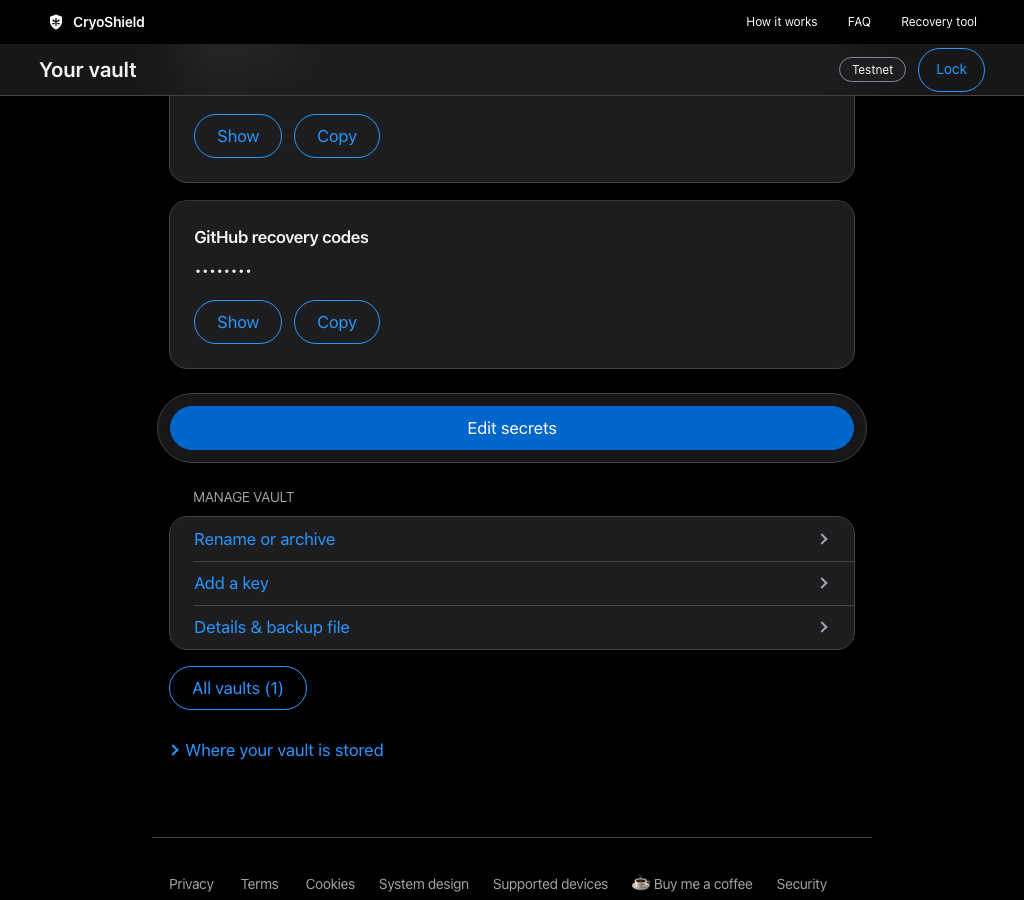
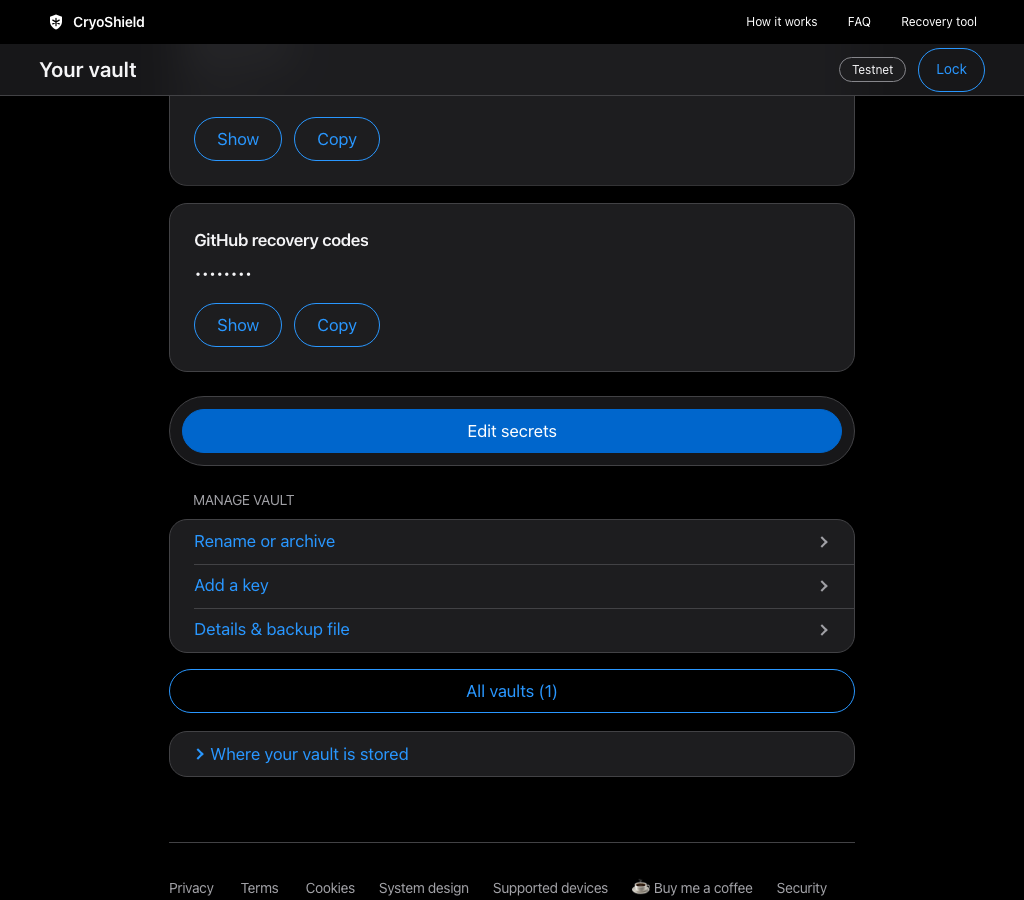
fix(web): align every vault section to one column width
The action bar no longer overhangs, All vaults is full width, the
location disclosure is a full-width card, and the footer divider spans
the column. Change align-vault-sections.

diff --git a/apps/web/e2e/specs/18-vault-layout.spec.ts b/apps/web/e2e/specs/18-vault-layout.spec.ts
@@ -1,0 +1,58 @@
+/** align-vault-sections 1.1 (spec vault-web-app "Vault view column alignment"): every block of the open vault shares
+ *  the content column's edges, at desktop and phone width; the location card expands inside itself. */
+import { expect, test } from '@playwright/test';
+import { APP } from '../fixtures/routes';
+import { ArweaveStub } from '../fixtures/arweave';
+import { VirtualKeys } from '../fixtures/webauthn';
+import { createVault } from '../fixtures/app';
+import { settled } from '../fixtures/motion';
+
+const BLOCKS = ['.secrets', '.action-bar', '.group-list', '.vault-nav button', '.vault-location-disclosure'];
+
+for (const width of [1024, 390]) {
+  test(`open vault blocks share the column edges at ${width} px`, async ({ page }) => {
+    await page.setViewportSize({ width, height: 900 });
+    await new ArweaveStub().install(page);
+    await page.goto(APP);
+    const keys = await VirtualKeys.attach(page);
+    await keys.add();
+    await keys.add();
+    await createVault(page, keys, [{ label: 'Bitcoin seed', secret: 'abandon ability able about' }]);
+    await page.getByRole('button', { name: 'Continue' }).click();
+    await expect(page.getByRole('button', { name: /^All vaults/ })).toBeVisible();
+    await settled(page);
+
+    const edges = async () => page.evaluate((sels) => {
+      const box = (el: Element) => el.getBoundingClientRect();
+      const main = document.querySelector('.app-main')!;
+      const cs = getComputedStyle(main);
+      const m = box(main);
+      const column = { left: m.left + parseFloat(cs.paddingLeft), right: m.right - parseFloat(cs.paddingRight) };
+      const blocks = sels.map((s) => {
+        const el = document.querySelector(s);
+        return { s, left: el ? box(el).left : NaN, right: el ? box(el).right : NaN };
+      });
+      const footer = document.querySelector('.app-footer ul')!;
+      const fcs = getComputedStyle(footer);
+      const ruled = fcs.borderTopWidth !== '0px' ? box(footer) : box(document.querySelector('.app-footer')!);
+      return { column, blocks, footer: { left: ruled.left, right: ruled.right } };
+    }, BLOCKS);
+
+    const check = (r: Awaited<ReturnType<typeof edges>>) => {
+      for (const b of r.blocks) {
+        expect(Math.abs(b.left - r.column.left), `${b.s} left`).toBeLessThanOrEqual(1);
+        expect(Math.abs(b.right - r.column.right), `${b.s} right`).toBeLessThanOrEqual(1);
+      }
+      expect(Math.abs(r.footer.left - r.column.left), 'footer divider left').toBeLessThanOrEqual(1);
+      expect(Math.abs(r.footer.right - r.column.right), 'footer divider right').toBeLessThanOrEqual(1);
+    };
+    check(await edges());
+
+    // Expanded, the details sit inside the one card: no second border.
+    await page.getByRole('button', { name: 'Where your vault is stored' }).click();
+    await expect(page.locator('.vault-location')).toBeVisible();
+    await settled(page);
+    check(await edges());
+    expect(await page.locator('.vault-location').evaluate((el) => getComputedStyle(el).borderTopWidth)).toBe('0px');
+  });
+}

diff --git a/apps/web/src/ui/global.css b/apps/web/src/ui/global.css
@@ -163,7 +163,8 @@ button.link-button {
   min-height: var(--bar-h);
   align-items: center;
   padding: var(--space-sm) var(--space-sm);
-  margin: var(--space-lg) calc(-1 * var(--space-sm)) var(--space-md);
+  /* align-vault-sections D2: the tray is the column width (no side overhang), like every other block. */
+  margin: var(--space-lg) 0 var(--space-md);
   background: var(--app-frost);
   -webkit-backdrop-filter: var(--blur-frost);
   backdrop-filter: var(--blur-frost);
@@ -201,6 +202,10 @@ button.link-button {
 }
 
 /* ---- Vault actions (vault-view-action-layout D3): an inset grouped list of full-row buttons, then navigation ---- */
+.vault-nav button {
+  /* align-vault-sections D1: full column width, like the blocks above it. */
+  flex: 1 1 100%;
+}
 .group-heading {
   margin: var(--space-lg) 0 var(--space-xs) var(--space-lg);
   font-size: var(--caption-size);
@@ -702,16 +707,17 @@ dd {
 .app-footer {
   max-width: 720px;
   margin: 0 auto;
-  padding: var(--space-lg) var(--space-md) var(--space-xxl);
-  border-top: 1px solid var(--app-hairline);
+  padding: 0 var(--space-md) var(--space-xxl);
 }
+/* align-vault-sections D4: the divider spans the content column, not the gutter. */
 .app-footer ul {
   display: flex;
   flex-wrap: wrap;
   gap: var(--space-xs) var(--space-lg);
   list-style: none;
   margin: 0;
-  padding: 0;
+  padding: var(--space-lg) 0 0;
+  border-top: 1px solid var(--app-hairline);
 }
 .app-footer a {
   display: inline-flex;
@@ -761,18 +767,40 @@ dd {
 }
 
 /* "Where your vault is stored" (show-vault-onchain-location): a quiet disclosure under the vault, utility-card rows. */
-.vault-location-disclosure {
-  margin: var(--space-md) 0;
-}
-.vault-location-disclosure .notice-details button.disclosure {
-  min-height: var(--target);
-}
 .vault-location {
   margin-top: var(--space-xs);
   padding: var(--space-md) var(--space-lg);
   background: var(--app-surface);
   border: 1px solid var(--app-hairline);
   border-radius: var(--radius-lg);
+}
+/* align-vault-sections D3: one full-width card, like the Manage vault list; the details expand inside it. */
+.vault-location-disclosure {
+  margin: var(--space-md) 0;
+  background: var(--app-surface);
+  border: 1px solid var(--app-hairline);
+  border-radius: var(--radius-lg);
+  overflow: hidden;
+}
+.vault-location-disclosure .notice-details {
+  margin: 0;
+}
+.vault-location-disclosure .notice-details button.disclosure {
+  width: 100%;
+  min-height: var(--target);
+  padding: 11px var(--space-lg);
+  border-radius: 0;
+  text-align: left;
+}
+.vault-location-disclosure .notice-details button.disclosure:focus-visible {
+  outline-offset: -3px;
+}
+.vault-location-disclosure .vault-location {
+  margin: 0;
+  padding-top: 0;
+  background: none;
+  border: 0;
+  border-radius: 0;
 }
 .loc-list {
   margin: 0;

diff --git a/openspec/changes/align-vault-sections/design.md b/openspec/changes/align-vault-sections/design.md
@@ -1,0 +1,32 @@
+# Design
+
+## D1. One column
+
+Every top-level block of the open vault (the secret cards, the action bar, the Manage vault list, the All vaults
+button and the location card) has the same left and right edge as the content column (`.app-main`'s content box).
+Text inside them keeps its inset (`--space-lg`), so the Manage vault heading still lines up with the row labels.
+
+## D2. The action bar stays a tray
+
+The frosted pill tray stays (it is sticky and needs its own background). Only the negative side margin goes: the tray
+is the column width and its button sits inside its padding. This applies to every `ActionBar` (create, unlock, edit,
+add key, details), so the flows stay consistent.
+
+## D3. Location card
+
+`.vault-location-disclosure` gets the group-list surface. The disclosure button fills the row (`width: 100%`,
+44 px target). The expanded `.vault-location` inside it drops its own border and background, so there is one card,
+not a card in a card.
+
+## D4. Footer
+
+The divider moves from `.app-footer` (720 px box including its gutter) to its list, so it spans the content column.
+
+## Test
+
+An E2E check reads the bounding boxes of those blocks at 1024 px and 390 px and requires equal left and right edges
+(±1 px). It fails on the current CSS (bar −12 px, All vaults narrower).
+
+## Security review
+
+N/A: CSS only; no crypto, contract, paymaster, secret-handling or CI change.

diff --git a/openspec/changes/align-vault-sections/proposal.md b/openspec/changes/align-vault-sections/proposal.md
@@ -1,0 +1,30 @@
+# Proposal
+
+## Why
+
+The founder: "in vault all sections must be aligned, some are bigger and some are smaller, can you fix all the
+widths." Measured on the open vault (1024 px viewport), the secret cards and the Manage vault list span the content
+column, but:
+
+- the sticky action bar (Edit secrets) sticks out 12 px on each side (a negative side margin);
+- "All vaults" is a content-sized pill;
+- "Where your vault is stored" is a bare text link;
+- the app footer's divider runs 17 px past the column on each side.
+
+The same bar overhang shows in the add-key and details sheets, and at phone width.
+
+## What Changes
+
+- `.action-bar` keeps its tray look but no longer has negative side margins: its edges line up with the cards in every
+  flow.
+- "All vaults" becomes a full-width secondary button.
+- "Where your vault is stored" becomes a full-width card row (surface, hairline, large radius, like the Manage list),
+  with the location details expanding inside the same card.
+- The app footer's divider spans the content column only.
+
+CSS only, plus no markup change beyond class names already present. No copy, behaviour, CSP or bundle change.
+
+## Impact
+
+- Spec: `vault-web-app` (ADDED "Vault view column alignment").
+- Code: `apps/web/src/ui/global.css`; E2E `apps/web/e2e/specs/18-vault-layout.spec.ts` (alignment check).

diff --git a/openspec/changes/align-vault-sections/specs/vault-web-app/spec.md b/openspec/changes/align-vault-sections/specs/vault-web-app/spec.md
@@ -1,0 +1,17 @@
+# Spec Delta
+
+## ADDED Requirements
+
+### Requirement: Vault view column alignment
+On the open vault, the secret cards, the action bar, the Manage vault list, the All vaults button and the "Where your
+vault is stored" card SHALL share the content column's left and right edges, at every viewport width. No block MUST
+stick out past the column or stop short of it. The action bar SHALL keep its sticky tray and SHALL NOT extend past the
+column in any flow. The app footer's divider SHALL span the content column only.
+
+#### Scenario: Aligned at desktop and phone width
+- **WHEN** an open vault is shown at 1024 px or 390 px wide
+- **THEN** those blocks' left edges are equal and their right edges are equal, within 1 px
+
+#### Scenario: Location card
+- **WHEN** "Where your vault is stored" is shown, collapsed or expanded
+- **THEN** it is one full-width card, and its expanded details sit inside it without a second border

diff --git a/openspec/changes/align-vault-sections/tasks.md b/openspec/changes/align-vault-sections/tasks.md
@@ -1,0 +1,13 @@
+# Tasks
+
+## 1. Tests first
+
+- [x] 1.1 E2E `18-vault-layout.spec.ts`: on the open vault at 1024 px and 390 px, the secret cards, action bar, Manage vault list, All vaults button and location card share left and right edges (±1 px); the footer divider stays within the column. Verify it fails first.
+
+## 2. Build
+
+- [x] 2.1 `global.css`: `.action-bar` without negative side margins; full-width `.vault-nav` button; `.vault-location-disclosure` as a card with a full-row toggle; footer divider on the list.
+
+## 3. Verification
+
+- [x] 3.1 Web unit suite, typecheck, lint, build, `verify-build`, E2E (vaults, flows, a11y, motion), screenshots reviewed in light and dark, `openspec validate --all --strict`.
